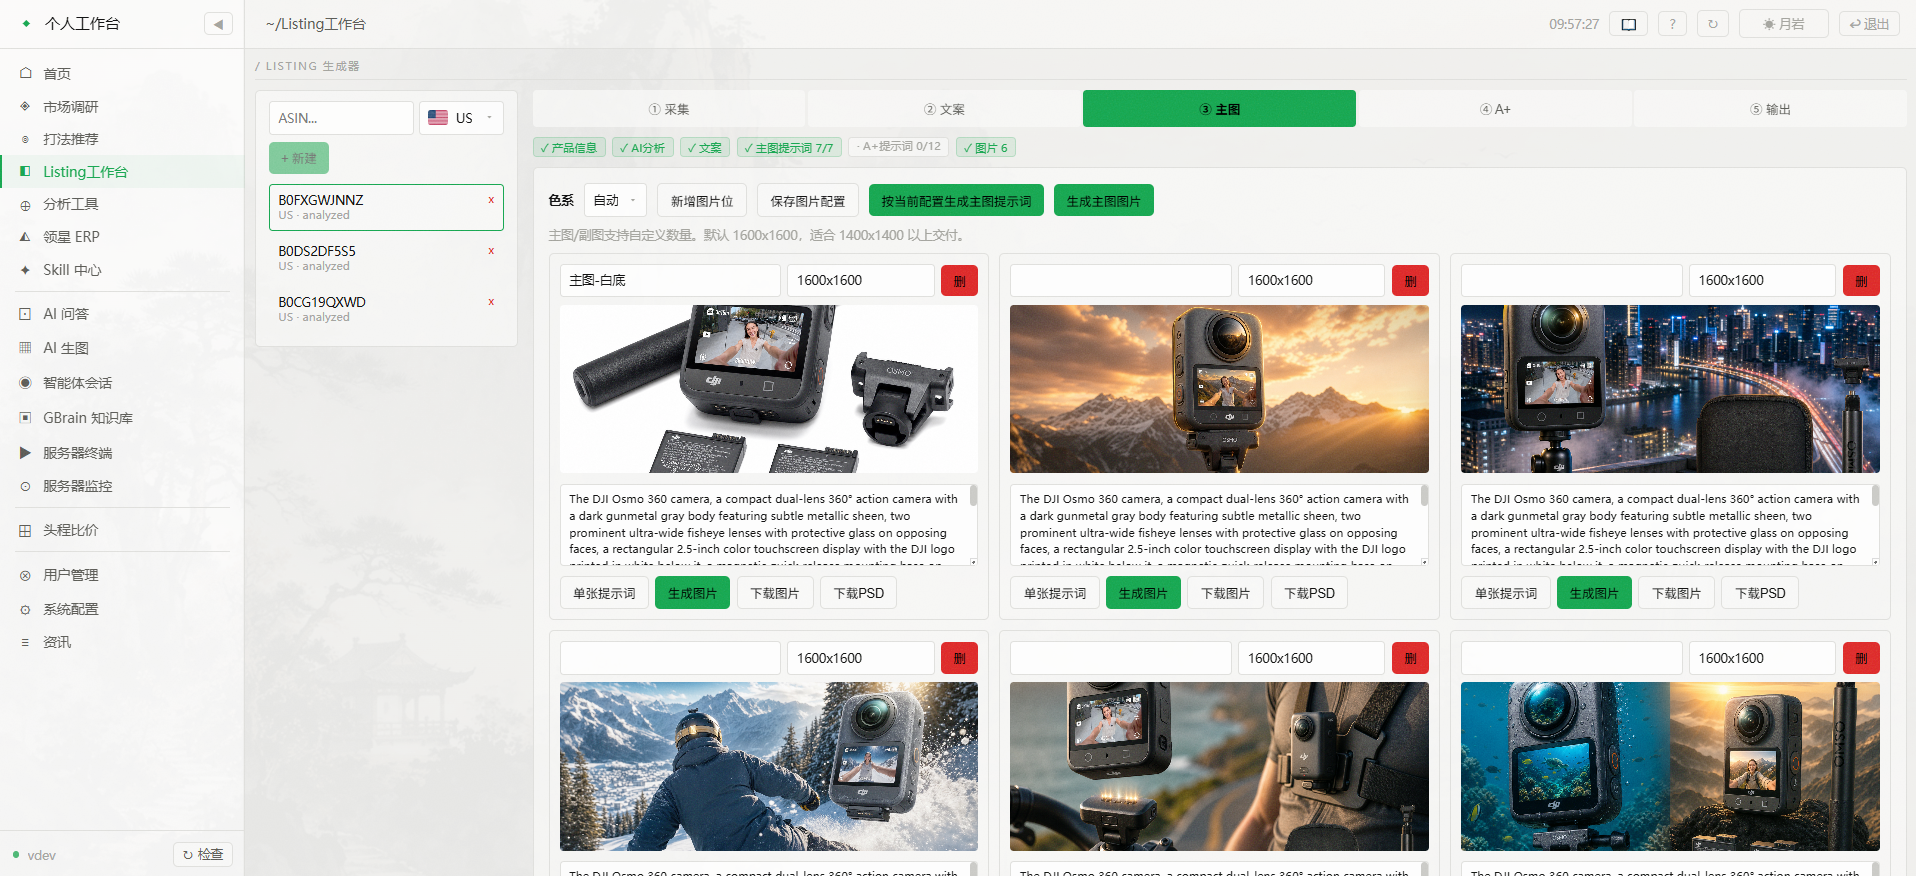
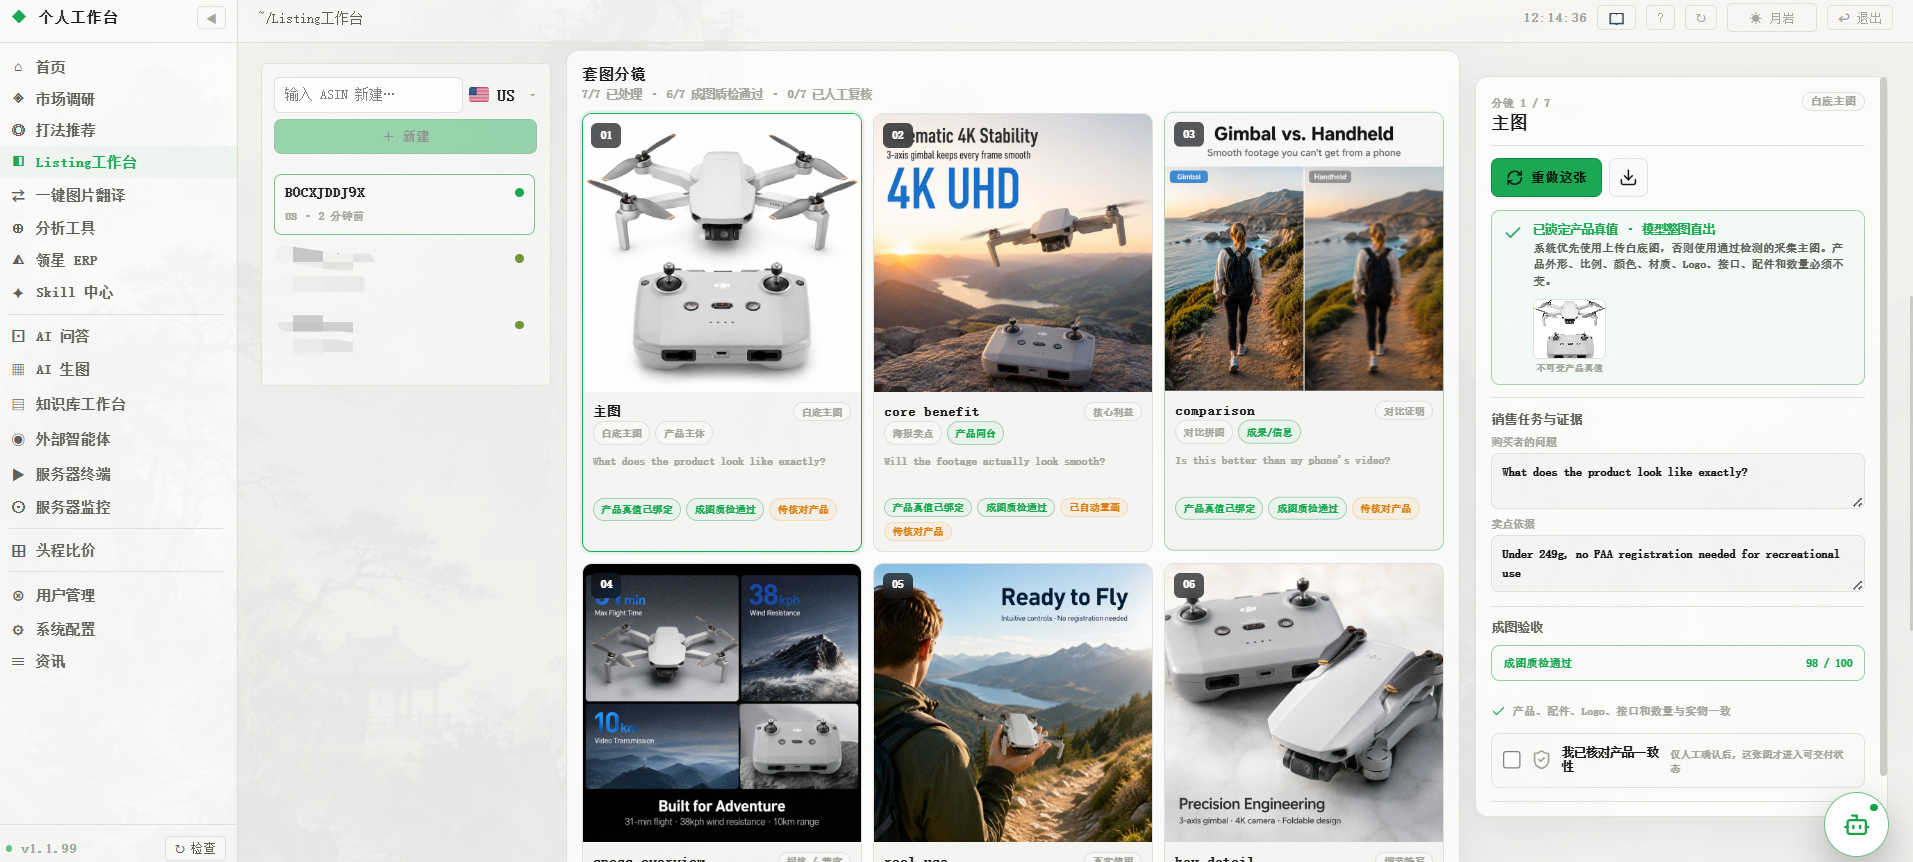
docs: README/USAGE 跟上套图分镜现状，换掉过时生图截图
- 首屏截图换成 Listing 工作台「套图分镜」实拍（旧图还是已下线的五 tab 生成器）
- README：介绍语、板块总览补 套图分镜 / 知识库工作台 / 资讯 24 信源，链上套图工作台文档
- USAGE：Listing 流水线第 5 步由「生成图片提示词」改为图文一次直出 + 质检交付
- 修正视觉模型说明：Apimart 只生图无视觉，不能用于图片分析/成图质检

diff --git a/README.md b/README.md
@@ -8,15 +8,15 @@
 ![Frontend](https://img.shields.io/badge/frontend-React%20%2B%20Vite-61DAFB?logo=react&logoColor=white)
 
 **IvyeaOps** 是一套**开源、自托管**的亚马逊运营工作台：一台服务器、一次登录，把
-Listing 制作、AI 生图、市场调研、深度分析、广告优化（含领星 ERP 接入）、内置 IvyeaAgent、
+Listing 套图制作、图片翻译、市场调研、深度分析、广告优化（含领星 ERP 接入）、内置 IvyeaAgent、
 知识库、Skill 工坊、服务器运维等运营全流程，统一收进浏览器里。
 
 > 数据与密钥都留在你自己的服务器，不绑定任何第三方云。**AGPL-3.0** 开源，可自由使用、修改、自托管。
 
 <p align="center">
-  <img src="docs/assets/screenshot-listing-main-images.png" alt="IvyeaOps · Listing 工作台 AI 主图生成" width="100%" />
+  <img src="docs/assets/screenshot-listing-main-images.png" alt="IvyeaOps · Listing 工作台 套图分镜" width="100%" />
   <br />
-  <sub>Listing 工作台 · AI 主图：一个 ASIN 批量生成白底 / 雪山 / 城市夜景 / 水下等多场景主图（更多界面见 <a href="#界面预览">界面预览</a>）</sub>
+  <sub>Listing 工作台 · 套图分镜：一张白底图锁住产品真值，整套主图 / A+ 的画面与英文文案由模型一次直出；每张过质检、人工复核后才可交付（方法论见 <a href="docs/listing-visual-studio.md">套图工作台文档</a>，更多界面见 <a href="#界面预览">界面预览</a>）</sub>
 </p>
 
 - **技术栈**：后端 FastAPI（Python）+ 前端 React / Vite（TypeScript），后端直接托管前端构建产物。
@@ -136,7 +136,7 @@ Listing 制作、AI 生图、市场调研、深度分析、广告优化（含领
 | **首页** | 工作台概览与常用入口 |
 | **市场调研** | 关键词 / 竞品 / 类目洞察，结合数据源 + AI 综合分析 |
 | **打法推荐** | 按品类给出运营策略建议 |
-| **Listing 工作台** | ASIN → 标题 · 五点 · 描述；AI 文案与改写 |
+| **Listing 工作台** | 采集 → 文案（标题 · 五点 · 描述）→ **套图分镜**：以白底图为产品真值，整套主图 / A+ 图文一次直出，逐张质检 + 整套一致性复核，人工确认后交付（见 [`docs/listing-visual-studio.md`](docs/listing-visual-studio.md)） |
 | **一键图片翻译** | 多站点卖家：一套图 → 多语言 → 多站点；上传或从图片工作区选图，按目标站点语言批量翻译图上文字（产品/版式/配色不变） |
 | **分析工具（深度分析）** | 竞品速查 · 关键词竞争 · Listing 重写 · 评论聚类 · 流量诊断 |
 | **领星 ERP** | 经官方 OpenAPI 接入领星：数据浏览 / 大盘 / 广告优化引擎 / 自动化建议 / 受控写操作 / 审计（见下文专章） |
@@ -146,9 +146,9 @@ Listing 制作、AI 生图、市场调研、深度分析、广告优化（含领
 | 板块 | 说明 |
 |---|---|
 | **AI 问答** | 浏览器内通用 AI 问答助手 |
-| **AI 生图** | Prompt → 批量主图 / 场景图（图像工作流） |
+| **AI 生图** | Prompt → 批量主图 / 场景图（通用图像工作流，不绑定某个 ASIN） |
+| **知识库工作台** | 上传 / 编辑 / 检索 / 对话 + 治理中心（变更审核、覆盖看板、冲突检查、脱敏导入）；文件保存在 `~/.ivyea/knowledge` |
 | **外部智能体** | 原生移植 claudecodeui 体验：Claude 走 stream-json 结构化输出、会话 resume、工具调用可视化、终端 |
-| **IvyeaAgent 知识库** | 右下角可视化上传文档、搜索与本地检索；文件保存在 `~/.ivyea/knowledge` |
 | **服务器终端** | 浏览器内 PTY 多终端会话（仅 Linux） |
 | **服务器监控** | CPU / 进程 / 日志等资源一屏掌握，含告警 |
 
@@ -162,7 +162,7 @@ Listing 制作、AI 生图、市场调研、深度分析、广告优化（含领
 |---|---|
 | **用户管理** | 多用户与权限 |
 | **系统配置** | 集中式运行时配置（密钥 / 集成路径 / 阈值），首启向导引导 |
-| **资讯** | 每日 AI 行业资讯摘要 |
+| **资讯** | 24 路信源并行抓取 + AI 汇总的每日行业资讯摘要（按类别均衡、附推荐理由） |
 
 > 还内置「审核制 AI 自动修复」（功能报错时用 hermes + git worktree 隔离生成修复、人工审核后应用，默认关闭）等运维能力。
 

diff --git a/docs/USAGE.md b/docs/USAGE.md
@@ -83,7 +83,7 @@ AI 走标准降级链（应用模型优先）。需要配置：`sorftime_key` + 
 ### Listing 工作台 🔒
 入口 `/listing`
 
-从竞品 ASIN 到整套 Listing 文案 + 图片提示词的流水线：
+从竞品 ASIN 到整套 Listing 文案 + 成品套图的流水线：
 
 1. **采集**：抓取竞品文案与图片。两种来源，自动择优：
    - **采集服务 `amazon-image-workflow`**（随仓库自带，`docker compose up -d` 即起，
@@ -94,9 +94,17 @@ AI 走标准降级链（应用模型优先）。需要配置：`sorftime_key` + 
 2. **补充产品信息 / 上传自有图片**。
 3. **AI 智能分析**：分析采集文案，并对**采集 + 上传的所有图片做视觉识别**（分批，覆盖每一张），提取「图片卖点清单」。
 4. **生成文案**：标题 / 五点 / 搜索词 / A+，都基于上一步的卖点。
-5. **生成图片提示词**：主图、副图、A+ 各槽位的生图提示词，同样融合图片卖点。
+5. **套图分镜**：以白底图（上传优先，其次通过白底检测的采集主图）为**产品真值**，按销售叙事排出
+   主图 / 核心利益 / 真实使用 / 细节 / 规格 / 对比 / 包装等分镜，服务端编译提示词后**图文一次直出**
+   （画面与英文文案由图片模型同时写入像素，不再本地叠字）。A+ 宽幅按原生比例出图。
+6. **质检与交付**：逐张做技术质量 / 产品一致性 / 文字逐字准确性质检（发现错字或产品失真自动重画一次），
+   整套再查色系与叙事一致性；每张需**人工勾选「已核对产品一致性」**后才进入可交付状态，未复核的导出标 `DRAFT`。
+   单张最多保留 8 个历史版本，可随时「重做这张」。
 
-所有 AI 步骤走标准降级链；图片识别需要在「系统配置」配好**视觉模型**（Apimart Claude Vision / OpenAI / 支持视觉的全局兜底）。采集服务见 [`../amazon-image-workflow/README.md`](../amazon-image-workflow/README.md)（推荐启用，`imgflow_url` 默认 `http://127.0.0.1:3001`；不启用则只能拿 1 张主图）。
+方法论与硬性约束详见 [`listing-visual-studio.md`](listing-visual-studio.md)。
+
+所有 AI 步骤走标准降级链；图片识别与成图质检需要在「系统配置 → 视觉复核模型」配好**视觉大模型**
+（硅基流动 Qwen3-VL / 阿里云百炼 qwen-vl / 智谱 GLM-4V / OpenAI GPT-4o 系等；**Apimart 只生图、无视觉，不能用于此**）。采集服务见 [`../amazon-image-workflow/README.md`](../amazon-image-workflow/README.md)（推荐启用，`imgflow_url` 默认 `http://127.0.0.1:3001`；不启用则只能拿 1 张主图）。
 
 ### AI 问答
 入口 `/assistant`
